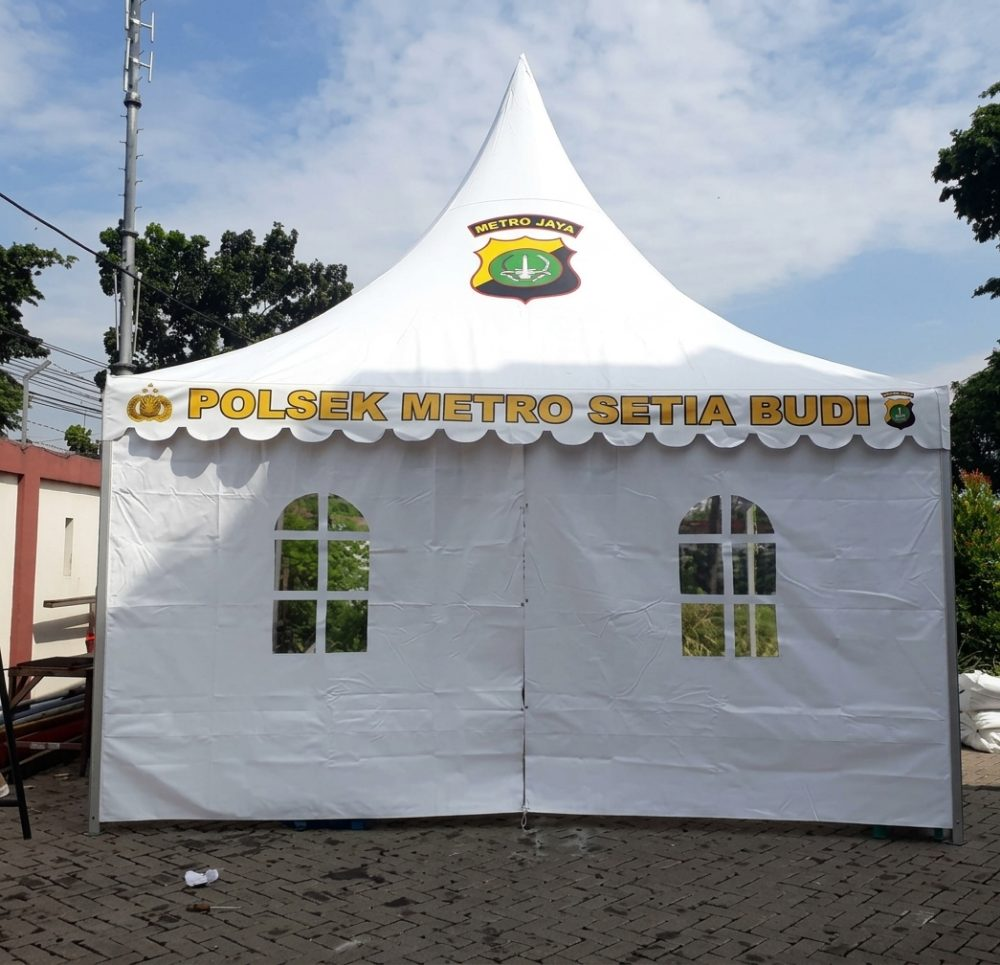
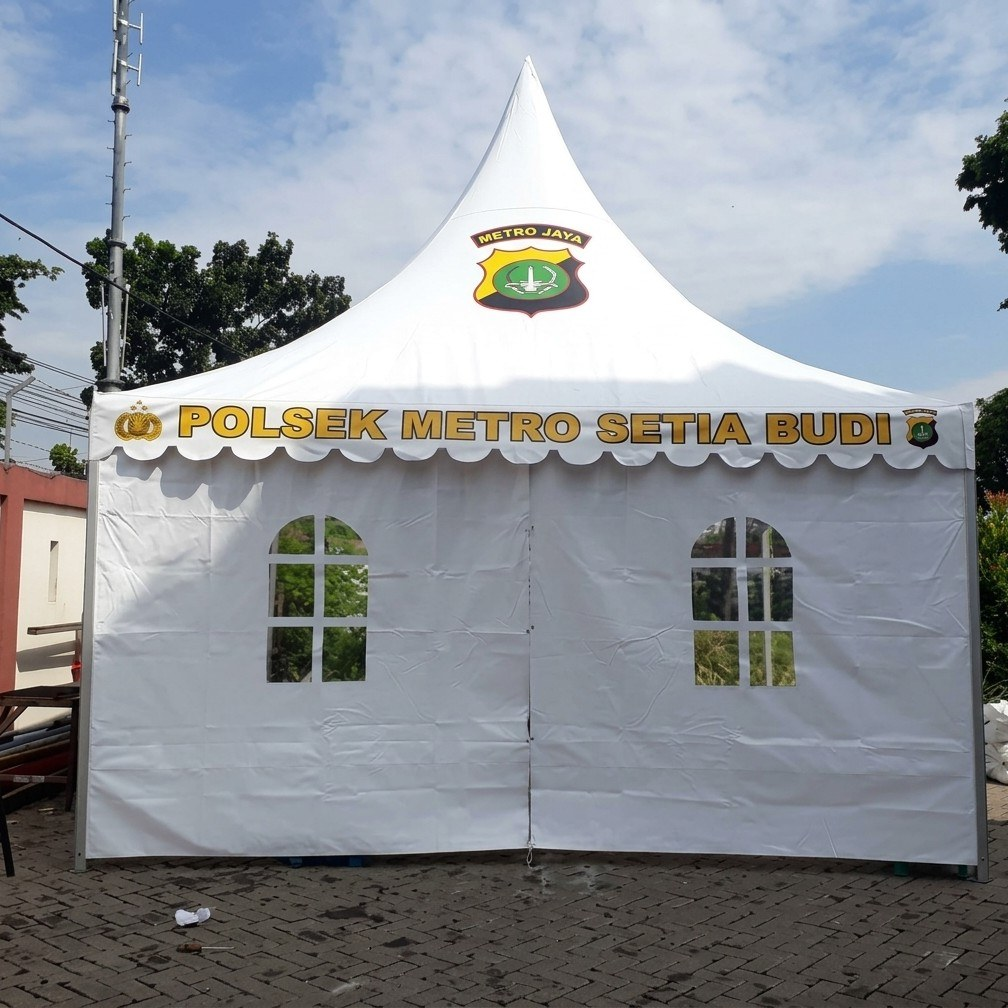
Perbaiki gambar galeri agar tidak terpotong (aspect-ratio 4:3, object-fit contain, framing proporsional)

diff --git a/assets/css/style.css b/assets/css/style.css
@@ -566,19 +566,22 @@ p { margin: 0 0 1em; }
 }
 .gallery-card__img-wrap {
   position: relative;
-  aspect-ratio: 16 / 10;
+  aspect-ratio: 4 / 3;
   overflow: hidden;
-  background: var(--dark-soft);
+  background: #f8fafc;
+  display: flex;
+  align-items: center;
+  justify-content: center;
 }
 .gallery-card__img-wrap img {
   width: 100%;
   height: 100%;
-  object-fit: cover;
+  object-fit: contain;
   transition: transform .45s ease;
   display: block;
 }
 .gallery-card:hover .gallery-card__img-wrap img {
-  transform: scale(1.06);
+  transform: scale(1.05);
 }
 .gallery-card__body {
   padding: 24px 22px 24px;
